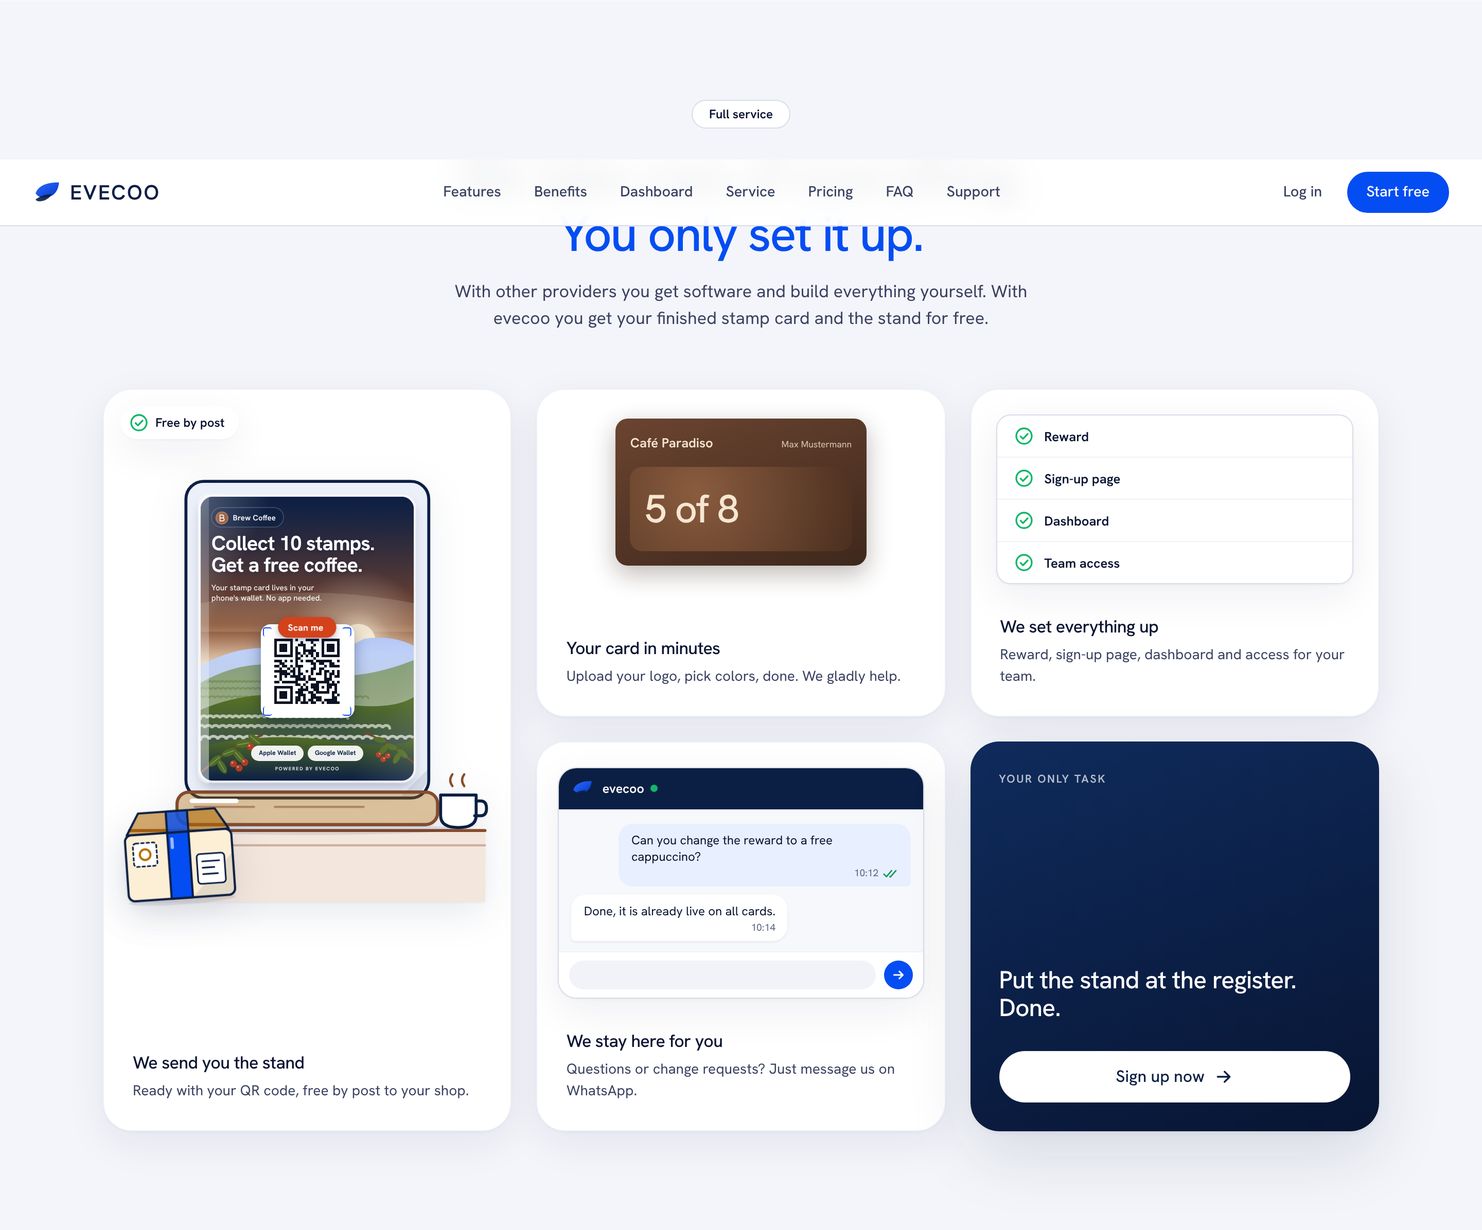
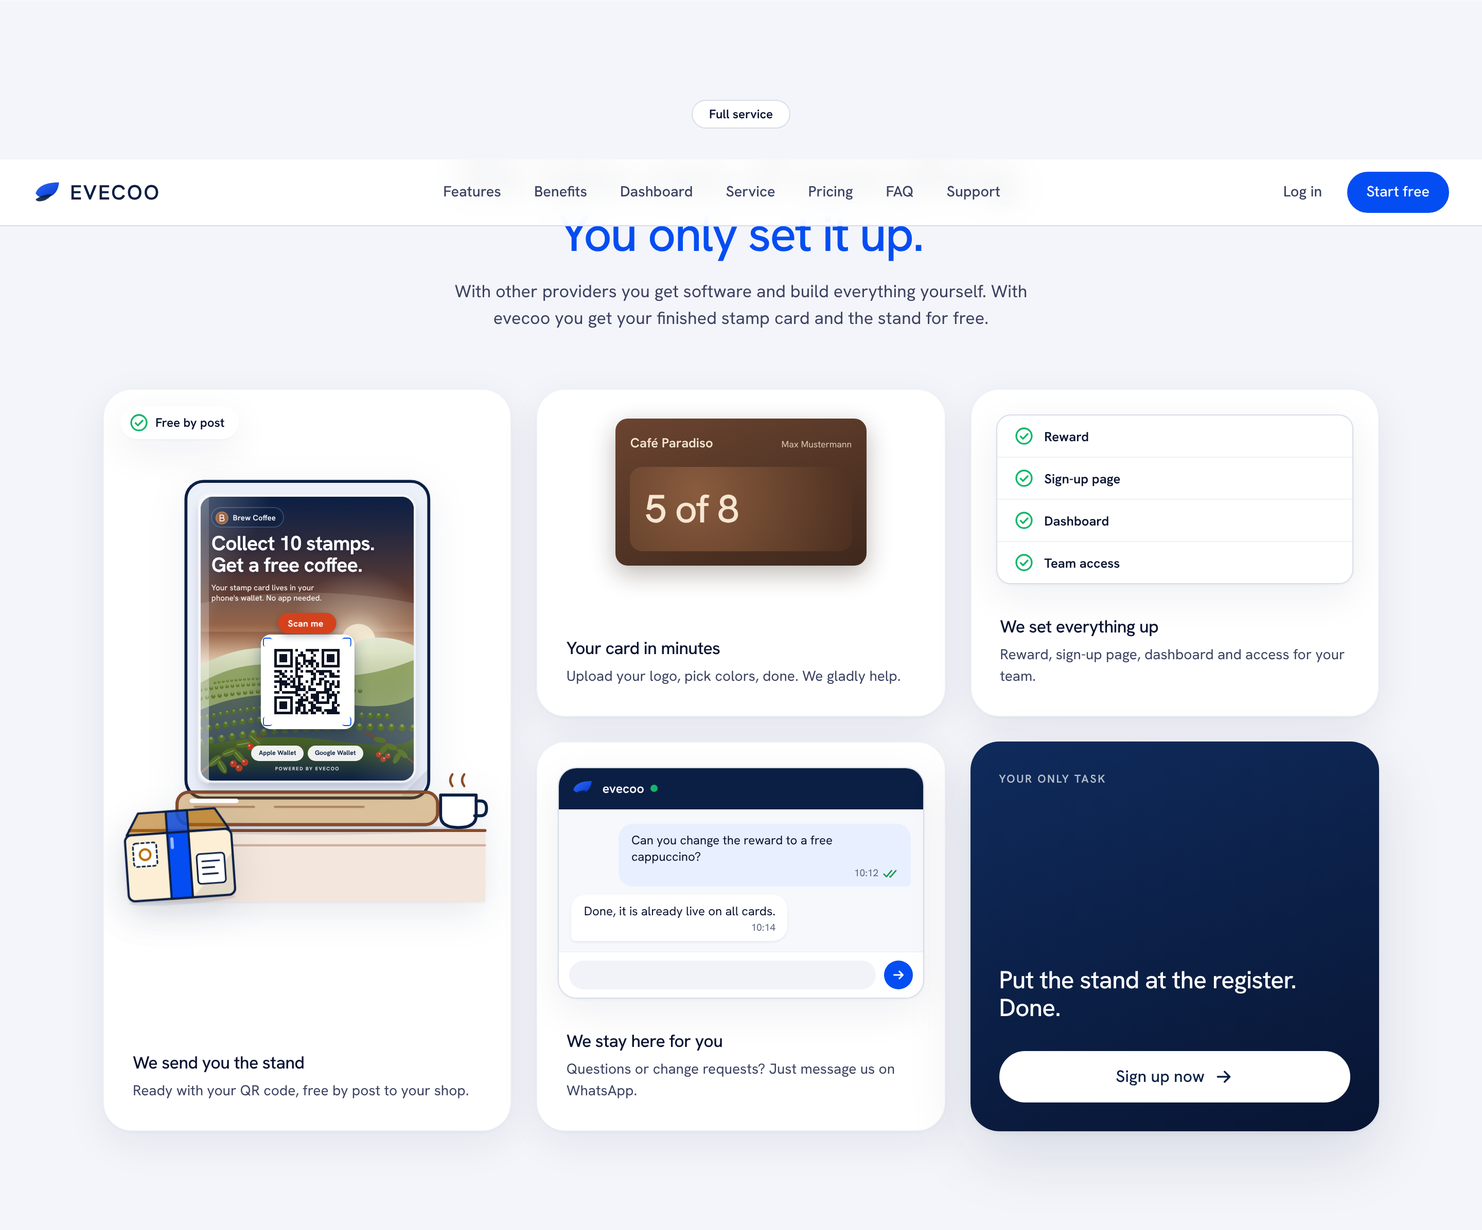
QrPoster: pill above QR tile, shrub-clump plantation rows, warmer far hill
Claude-Session: https://claude.ai/code/session_018DhSZ1ukDRH54rQH2rXpdo

Changed region(s): [[0.125, 0.495, 0.2812, 0.6187]]

diff --git a/components/illustration/illo-data.ts b/components/illustration/illo-data.ts
@@ -49,7 +49,7 @@ export const backgroundsDashArea: IlloData = {"viewBox":"0 0 1040 360","attrs":{
 
 export const backgroundsHeroField: IlloData = {"viewBox":"0 0 1440 500","attrs":{"preserveAspectRatio":"xMidYMid slice"},"body":"<defs><linearGradient id=\"hero-field__bg\" x1=\"0\" x2=\"1\" y1=\"0\" y2=\"0\"><stop offset=\"0\" stop-color=\"#b9ccfb\" stop-opacity=\".55\"/><stop offset=\".35\" stop-color=\"#e8effe\"/><stop offset=\".5\" stop-color=\"#fff\"/><stop offset=\".65\" stop-color=\"#e8effe\"/><stop offset=\"1\" stop-color=\"#b9ccfb\" stop-opacity=\".7\"/></linearGradient><linearGradient id=\"hero-field__band\" x1=\"0\" x2=\"1\" y1=\"0\" y2=\"0\"><stop offset=\"0\" stop-color=\"#fff\" stop-opacity=\".25\"/><stop offset=\".5\" stop-color=\"#fff\" stop-opacity=\".95\"/><stop offset=\"1\" stop-color=\"#fff\" stop-opacity=\".25\"/></linearGradient><linearGradient id=\"hero-field__fall\" x1=\"0\" x2=\"0\" y1=\"0\" y2=\"1\"><stop offset=\"0\" stop-color=\"#fff\" stop-opacity=\"0\"/><stop offset=\".5\" stop-color=\"#fff\" stop-opacity=\".55\"/><stop offset=\"1\" stop-color=\"#fff\" stop-opacity=\"0\"/></linearGradient><linearGradient id=\"hero-field__fade\" x1=\"0\" x2=\"1\" y1=\"0\" y2=\"0\"><stop offset=\"0\" stop-color=\"#b9ccfb\" stop-opacity=\"0\"/><stop offset=\".15\" stop-color=\"#b9ccfb\" stop-opacity=\".9\"/><stop offset=\".85\" stop-color=\"#b9ccfb\" stop-opacity=\".9\"/><stop offset=\"1\" stop-color=\"#b9ccfb\" stop-opacity=\"0\"/></linearGradient><radialGradient id=\"hero-field__core\" cx=\".5\" cy=\".54\" r=\".5\"><stop offset=\"0\" stop-color=\"#fff\" stop-opacity=\".9\"/><stop offset=\"1\" stop-color=\"#fff\" stop-opacity=\"0\"/></radialGradient></defs><rect width=\"1440\" height=\"500\" fill=\"url(#hero-field__bg)\"/><path fill=\"url(#hero-field__band)\" fill-opacity=\".8\" d=\"M0 40c390 0 540 110 720 110s330-110 720-110v430c-390 0-540-78-720-78S390 470 0 470Z\" class=\"band\"/><rect width=\"1440\" height=\"500\" fill=\"url(#hero-field__fall)\"/><ellipse cx=\"720\" cy=\"270\" fill=\"url(#hero-field__core)\" rx=\"420\" ry=\"230\"/><g fill=\"none\" stroke=\"url(#hero-field__fade)\" stroke-opacity=\".6\" class=\"persp\"><path d=\"M0 40c300 0 560 184 718 230\"/><path d=\"M0 95c300 0 560 140 718 175\"/><path d=\"M0 150c300 0 560 96 718 120\"/><path d=\"M0 210c300 0 560 48 718 60\"/><path d=\"M0 280c300 0 560-8 718-10\"/><path d=\"M0 350c300 0 560-64 718-80\"/><path d=\"M0 410c300 0 560-112 718-140\"/><path d=\"M0 465c300 0 560-156 718-195\"/><path d=\"M722 270c158-46 418-230 718-230\"/><path d=\"M722 270c158-35 418-175 718-175\"/><path d=\"M722 270c158-24 418-120 718-120\"/><path d=\"M722 270c158-12 418-60 718-60\"/><path d=\"M722 270c158 2 418 10 718 10\"/><path d=\"M722 270c158 16 418 80 718 80\"/><path d=\"M722 270c158 28 418 140 718 140\"/><path d=\"M722 270c158 39 418 195 718 195\"/></g><path fill=\"none\" stroke=\"#b9ccfb\" stroke-opacity=\".45\" d=\"M0 40c390 0 540 110 720 110s330-110 720-110M0 470c390 0 540-78 720-78s330 78 720 78\" class=\"edge\"/>"};
 
-export const backgroundsPosterCoffeeHills: IlloData = {"viewBox":"0 0 300 400","attrs":{},"body":"<defs><linearGradient id=\"poster-coffee-hills__sky\" x1=\"0\" x2=\"0\" y1=\"0\" y2=\"1\"><stop offset=\"0\" stop-color=\"#0b1f44\"/><stop offset=\".45\" stop-color=\"#8a4b2a\"/><stop offset=\".62\" stop-color=\"#fcefd6\"/></linearGradient><linearGradient id=\"poster-coffee-hills__h1\" x1=\"0\" x2=\"0\" y1=\"0\" y2=\"1\"><stop offset=\"0\" stop-color=\"#b9ccfb\"/><stop offset=\"1\" stop-color=\"#eaf0da\"/></linearGradient><linearGradient id=\"poster-coffee-hills__h2\" x1=\"0\" x2=\"0\" y1=\"0\" y2=\"1\"><stop offset=\"0\" stop-color=\"#5e7a1f\" stop-opacity=\".55\"/><stop offset=\"1\" stop-color=\"#eaf0da\"/></linearGradient><linearGradient id=\"poster-coffee-hills__h3\" x1=\"0\" x2=\"0\" y1=\"0\" y2=\"1\"><stop offset=\"0\" stop-color=\"#5e7a1f\"/><stop offset=\"1\" stop-color=\"#0b1f44\" stop-opacity=\".7\"/></linearGradient><linearGradient id=\"poster-coffee-hills__h4\" x1=\"0\" x2=\"0\" y1=\"0\" y2=\"1\"><stop offset=\"0\" stop-color=\"#5e7a1f\"/><stop offset=\"1\" stop-color=\"#0b1f44\"/></linearGradient><radialGradient id=\"poster-coffee-hills__glow\" cx=\".5\" cy=\".5\" r=\".5\"><stop offset=\"0\" stop-color=\"#fcefd6\" stop-opacity=\".95\"/><stop offset=\".45\" stop-color=\"#fcefd6\" stop-opacity=\".35\"/><stop offset=\"1\" stop-color=\"#fcefd6\" stop-opacity=\"0\"/></radialGradient></defs><rect width=\"300\" height=\"400\" fill=\"url(#poster-coffee-hills__sky)\"/><circle cx=\"222\" cy=\"203\" r=\"100\" fill=\"url(#poster-coffee-hills__glow)\"/><circle cx=\"222\" cy=\"203\" r=\"24\" fill=\"#fcefd6\"/><path fill=\"#fcefd6\" fill-opacity=\".18\" d=\"M0 150q150-30 300 0v40H0Z\"/><path fill=\"url(#poster-coffee-hills__h1)\" d=\"M0 238q60-34 120-22t110-16q40-6 70 10v190H0Z\"/><path fill=\"url(#poster-coffee-hills__h2)\" d=\"M0 262q70-40 140-18t160-14v170H0Z\"/><path fill=\"none\" stroke=\"#5e7a1f\" stroke-linecap=\"round\" stroke-opacity=\".4\" stroke-width=\"2.4\" d=\"M10 262a3 2.4 0 0 1 6 0 3 2.4 0 0 1 6 0 3 2.4 0 0 1 6 0 3 2.4 0 0 1 6 0 3 2.4 0 0 1 6 0 3 2.4 0 0 1 6 0 3 2.4 0 0 1 6 0 3 2.4 0 0 1 6 0 3 2.4 0 0 1 6 0 3 2.4 0 0 1 6 0 3 2.4 0 0 1 6 0 3 2.4 0 0 1 6 0 3 2.4 0 0 1 6 0 3 2.4 0 0 1 6 0 3 2.4 0 0 1 6 0 3 2.4 0 0 1 6 0 3 2.4 0 0 1 6 0 3 2.4 0 0 1 6 0 3 2.4 0 0 1 6 0 3 2.4 0 0 1 6 0 3 2.4 0 0 1 6 0 3 2.4 0 0 1 6 0 3 2.4 0 0 1 6 0 3 2.4 0 0 1 6 0\"/><path fill=\"none\" stroke=\"#5e7a1f\" stroke-linecap=\"round\" stroke-opacity=\".4\" stroke-width=\"2.4\" d=\"M0 272a3.5 2.8 0 0 1 7 0 3.5 2.8 0 0 1 7 0 3.5 2.8 0 0 1 7 0 3.5 2.8 0 0 1 7 0 3.5 2.8 0 0 1 7 0 3.5 2.8 0 0 1 7 0 3.5 2.8 0 0 1 7 0 3.5 2.8 0 0 1 7 0 3.5 2.8 0 0 1 7 0 3.5 2.8 0 0 1 7 0 3.5 2.8 0 0 1 7 0 3.5 2.8 0 0 1 7 0 3.5 2.8 0 0 1 7 0 3.5 2.8 0 0 1 7 0 3.5 2.8 0 0 1 7 0 3.5 2.8 0 0 1 7 0 3.5 2.8 0 0 1 7 0 3.5 2.8 0 0 1 7 0 3.5 2.8 0 0 1 7 0 3.5 2.8 0 0 1 7 0 3.5 2.8 0 0 1 7 0 3.5 2.8 0 0 1 7 0 3.5 2.8 0 0 1 7 0 3.5 2.8 0 0 1 7 0 3.5 2.8 0 0 1 7 0 3.5 2.8 0 0 1 7 0 3.5 2.8 0 0 1 7 0 3.5 2.8 0 0 1 7 0\"/><path fill=\"none\" stroke=\"#5e7a1f\" stroke-linecap=\"round\" stroke-opacity=\".4\" stroke-width=\"2.4\" d=\"M-4 284a4 3.2 0 0 1 8 0 4 3.2 0 0 1 8 0 4 3.2 0 0 1 8 0 4 3.2 0 0 1 8 0 4 3.2 0 0 1 8 0 4 3.2 0 0 1 8 0 4 3.2 0 0 1 8 0 4 3.2 0 0 1 8 0 4 3.2 0 0 1 8 0 4 3.2 0 0 1 8 0 4 3.2 0 0 1 8 0 4 3.2 0 0 1 8 0 4 3.2 0 0 1 8 0 4 3.2 0 0 1 8 0 4 3.2 0 0 1 8 0 4 3.2 0 0 1 8 0 4 3.2 0 0 1 8 0 4 3.2 0 0 1 8 0 4 3.2 0 0 1 8 0 4 3.2 0 0 1 8 0 4 3.2 0 0 1 8 0 4 3.2 0 0 1 8 0 4 3.2 0 0 1 8 0 4 3.2 0 0 1 8 0 4 3.2 0 0 1 8 0 4 3.2 0 0 1 8 0 4 3.2 0 0 1 8 0 4 3.2 0 0 1 8 0 4 3.2 0 0 1 8 0 4 3.2 0 0 1 8 0\"/><path fill=\"url(#poster-coffee-hills__h3)\" d=\"M0 300q80-34 170-14t130-4v118H0Z\"/><path fill=\"none\" stroke=\"#eaf0da\" stroke-linecap=\"round\" stroke-opacity=\".8\" stroke-width=\"4\" d=\"M0 312a4.5 3.6 0 0 1 9 0 4.5 3.6 0 0 1 9 0 4.5 3.6 0 0 1 9 0 4.5 3.6 0 0 1 9 0 4.5 3.6 0 0 1 9 0 4.5 3.6 0 0 1 9 0 4.5 3.6 0 0 1 9 0 4.5 3.6 0 0 1 9 0 4.5 3.6 0 0 1 9 0 4.5 3.6 0 0 1 9 0 4.5 3.6 0 0 1 9 0 4.5 3.6 0 0 1 9 0 4.5 3.6 0 0 1 9 0 4.5 3.6 0 0 1 9 0 4.5 3.6 0 0 1 9 0 4.5 3.6 0 0 1 9 0 4.5 3.6 0 0 1 9 0 4.5 3.6 0 0 1 9 0 4.5 3.6 0 0 1 9 0 4.5 3.6 0 0 1 9 0 4.5 3.6 0 0 1 9 0 4.5 3.6 0 0 1 9 0 4.5 3.6 0 0 1 9 0\"/><path fill=\"none\" stroke=\"#eaf0da\" stroke-linecap=\"round\" stroke-opacity=\".8\" stroke-width=\"4\" d=\"M-4 326a5 4 0 0 1 10 0 5 4 0 0 1 10 0 5 4 0 0 1 10 0 5 4 0 0 1 10 0 5 4 0 0 1 10 0 5 4 0 0 1 10 0 5 4 0 0 1 10 0 5 4 0 0 1 10 0 5 4 0 0 1 10 0 5 4 0 0 1 10 0 5 4 0 0 1 10 0 5 4 0 0 1 10 0 5 4 0 0 1 10 0 5 4 0 0 1 10 0 5 4 0 0 1 10 0 5 4 0 0 1 10 0 5 4 0 0 1 10 0 5 4 0 0 1 10 0 5 4 0 0 1 10 0 5 4 0 0 1 10 0 5 4 0 0 1 10 0 5 4 0 0 1 10 0 5 4 0 0 1 10 0 5 4 0 0 1 10 0 5 4 0 0 1 10 0 5 4 0 0 1 10 0 5 4 0 0 1 10 0\"/><path fill=\"none\" stroke=\"#eaf0da\" stroke-linecap=\"round\" stroke-opacity=\".9\" stroke-width=\"4\" d=\"M0 342a6 4.8 0 0 1 12 0 6 4.8 0 0 1 12 0 6 4.8 0 0 1 12 0 6 4.8 0 0 1 12 0 6 4.8 0 0 1 12 0 6 4.8 0 0 1 12 0 6 4.8 0 0 1 12 0 6 4.8 0 0 1 12 0 6 4.8 0 0 1 12 0 6 4.8 0 0 1 12 0 6 4.8 0 0 1 12 0 6 4.8 0 0 1 12 0 6 4.8 0 0 1 12 0 6 4.8 0 0 1 12 0 6 4.8 0 0 1 12 0 6 4.8 0 0 1 12 0 6 4.8 0 0 1 12 0 6 4.8 0 0 1 12 0 6 4.8 0 0 1 12 0 6 4.8 0 0 1 12 0 6 4.8 0 0 1 12 0 6 4.8 0 0 1 12 0 6 4.8 0 0 1 12 0 6 4.8 0 0 1 12 0 6 4.8 0 0 1 12 0\"/><path fill=\"url(#poster-coffee-hills__h4)\" d=\"M0 352q90-22 190-8t110-6v62H0Z\"/><g stroke-linecap=\"round\" stroke-linejoin=\"round\"><path fill=\"none\" stroke=\"#8a4b2a\" stroke-width=\"3\" d=\"M-6 394q46-42 92-58\"/><ellipse cx=\"20\" cy=\"372\" fill=\"#5e7a1f\" rx=\"11\" ry=\"5\" transform=\"rotate(-40 20 372)\"/><path stroke=\"#eaf0da\" stroke-opacity=\".5\" d=\"m13.87 377.14 12.26-10.28\"/><ellipse cx=\"40\" cy=\"360\" fill=\"#5e7a1f\" rx=\"11\" ry=\"5\" transform=\"rotate(-20 40 360)\"/><path stroke=\"#eaf0da\" stroke-opacity=\".5\" d=\"m32.48 362.74 15.04-5.48\"/><ellipse cx=\"60\" cy=\"348\" fill=\"#5e7a1f\" rx=\"11\" ry=\"5\" transform=\"rotate(-10 60 348)\"/><path stroke=\"#eaf0da\" stroke-opacity=\".5\" d=\"m52.12 349.39 15.76-2.78\"/><ellipse cx=\"30\" cy=\"380\" fill=\"#5e7a1f\" rx=\"11\" ry=\"5\" transform=\"rotate(60 30 380)\"/><path stroke=\"#eaf0da\" stroke-opacity=\".5\" d=\"m26 373.07 8 13.86\"/><ellipse cx=\"54\" cy=\"366\" fill=\"#5e7a1f\" rx=\"11\" ry=\"5\" transform=\"rotate(50 54 366)\"/><path stroke=\"#eaf0da\" stroke-opacity=\".5\" d=\"m48.86 359.87 10.28 12.26\"/><ellipse cx=\"76\" cy=\"342\" fill=\"#5e7a1f\" rx=\"11\" ry=\"5\" transform=\"rotate(40 76 342)\"/><path stroke=\"#eaf0da\" stroke-opacity=\".5\" d=\"m69.87 336.86 12.26 10.28\"/><circle cx=\"46\" cy=\"376\" r=\"5\" fill=\"#d4421c\"/><circle cx=\"44.4\" cy=\"374.4\" r=\"1.4\" fill=\"#fff\" fill-opacity=\".6\"/><circle cx=\"54\" cy=\"382\" r=\"5\" fill=\"#d4421c\"/><circle cx=\"52.4\" cy=\"380.4\" r=\"1.4\" fill=\"#fff\" fill-opacity=\".6\"/><circle cx=\"62\" cy=\"374\" r=\"5\" fill=\"#d4421c\"/><circle cx=\"60.4\" cy=\"372.4\" r=\"1.4\" fill=\"#fff\" fill-opacity=\".6\"/><circle cx=\"70\" cy=\"352\" r=\"5\" fill=\"#d4421c\"/><circle cx=\"68.4\" cy=\"350.4\" r=\"1.4\" fill=\"#fff\" fill-opacity=\".6\"/></g><g stroke-linecap=\"round\" stroke-linejoin=\"round\" transform=\"matrix(-.8 0 0 .8 300 64)\"><path fill=\"none\" stroke=\"#8a4b2a\" stroke-width=\"3\" d=\"M-6 394q46-42 92-58\"/><ellipse cx=\"20\" cy=\"372\" fill=\"#5e7a1f\" rx=\"11\" ry=\"5\" transform=\"rotate(-40 20 372)\"/><ellipse cx=\"40\" cy=\"360\" fill=\"#5e7a1f\" rx=\"11\" ry=\"5\" transform=\"rotate(-20 40 360)\"/><ellipse cx=\"60\" cy=\"348\" fill=\"#5e7a1f\" rx=\"11\" ry=\"5\" transform=\"rotate(-10 60 348)\"/><ellipse cx=\"30\" cy=\"380\" fill=\"#5e7a1f\" rx=\"11\" ry=\"5\" transform=\"rotate(60 30 380)\"/><ellipse cx=\"54\" cy=\"366\" fill=\"#5e7a1f\" rx=\"11\" ry=\"5\" transform=\"rotate(50 54 366)\"/><circle cx=\"46\" cy=\"376\" r=\"5\" fill=\"#d4421c\"/><circle cx=\"44.4\" cy=\"374.4\" r=\"1.4\" fill=\"#fff\" fill-opacity=\".6\"/><circle cx=\"54\" cy=\"382\" r=\"5\" fill=\"#d4421c\"/><circle cx=\"52.4\" cy=\"380.4\" r=\"1.4\" fill=\"#fff\" fill-opacity=\".6\"/><circle cx=\"62\" cy=\"374\" r=\"5\" fill=\"#d4421c\"/><circle cx=\"60.4\" cy=\"372.4\" r=\"1.4\" fill=\"#fff\" fill-opacity=\".6\"/></g>"};
+export const backgroundsPosterCoffeeHills: IlloData = {"viewBox":"0 0 300 400","attrs":{},"body":"<defs><linearGradient id=\"poster-coffee-hills__sky\" x1=\"0\" x2=\"0\" y1=\"0\" y2=\"1\"><stop offset=\"0\" stop-color=\"#0b1f44\"/><stop offset=\".45\" stop-color=\"#8a4b2a\"/><stop offset=\".62\" stop-color=\"#fcefd6\"/></linearGradient><linearGradient id=\"poster-coffee-hills__h1\" x1=\"0\" x2=\"0\" y1=\"0\" y2=\"1\"><stop offset=\"0\" stop-color=\"#eaf0da\"/><stop offset=\"1\" stop-color=\"#5e7a1f\" stop-opacity=\".45\"/></linearGradient><linearGradient id=\"poster-coffee-hills__h2\" x1=\"0\" x2=\"0\" y1=\"0\" y2=\"1\"><stop offset=\"0\" stop-color=\"#5e7a1f\" stop-opacity=\".55\"/><stop offset=\"1\" stop-color=\"#eaf0da\"/></linearGradient><linearGradient id=\"poster-coffee-hills__h3\" x1=\"0\" x2=\"0\" y1=\"0\" y2=\"1\"><stop offset=\"0\" stop-color=\"#0b1f44\" stop-opacity=\".45\"/><stop offset=\"1\" stop-color=\"#0b1f44\" stop-opacity=\".8\"/></linearGradient><linearGradient id=\"poster-coffee-hills__h4\" x1=\"0\" x2=\"0\" y1=\"0\" y2=\"1\"><stop offset=\"0\" stop-color=\"#5e7a1f\"/><stop offset=\"1\" stop-color=\"#0b1f44\"/></linearGradient><radialGradient id=\"poster-coffee-hills__glow\" cx=\".5\" cy=\".5\" r=\".5\"><stop offset=\"0\" stop-color=\"#fcefd6\" stop-opacity=\".95\"/><stop offset=\".45\" stop-color=\"#fcefd6\" stop-opacity=\".35\"/><stop offset=\"1\" stop-color=\"#fcefd6\" stop-opacity=\"0\"/></radialGradient></defs><rect width=\"300\" height=\"400\" fill=\"url(#poster-coffee-hills__sky)\"/><circle cx=\"222\" cy=\"203\" r=\"100\" fill=\"url(#poster-coffee-hills__glow)\"/><circle cx=\"222\" cy=\"203\" r=\"24\" fill=\"#fcefd6\"/><path fill=\"#fcefd6\" fill-opacity=\".18\" d=\"M0 150q150-30 300 0v40H0Z\"/><path fill=\"url(#poster-coffee-hills__h1)\" d=\"M0 238q60-34 120-22t110-16q40-6 70 10v190H0Z\"/><path fill=\"url(#poster-coffee-hills__h2)\" d=\"M0 262q70-40 140-18t160-14v170H0Z\"/><path fill=\"none\" stroke=\"#5e7a1f\" stroke-dasharray=\"0 6\" stroke-linecap=\"round\" stroke-opacity=\".8\" stroke-width=\"4\" d=\"M20 262q60-10 130-4\"/><path fill=\"none\" stroke=\"#eaf0da\" stroke-dasharray=\"0 6\" stroke-linecap=\"round\" stroke-opacity=\".35\" stroke-width=\"1.8\" d=\"M20 260.88q60-10 130-4\"/><path fill=\"none\" stroke=\"#5e7a1f\" stroke-dasharray=\"0 7.5\" stroke-linecap=\"round\" stroke-opacity=\".85\" stroke-width=\"5\" d=\"M0 272q90-14 190-6\"/><path fill=\"none\" stroke=\"#eaf0da\" stroke-dasharray=\"0 7.5\" stroke-linecap=\"round\" stroke-opacity=\".35\" stroke-width=\"2.25\" d=\"M0 270.6q90-14 190-6\"/><path fill=\"none\" stroke=\"#5e7a1f\" stroke-dasharray=\"0 9\" stroke-linecap=\"round\" stroke-opacity=\".9\" stroke-width=\"6\" d=\"M0 284q110-18 230-10\"/><path fill=\"none\" stroke=\"#eaf0da\" stroke-dasharray=\"0 9\" stroke-linecap=\"round\" stroke-opacity=\".35\" stroke-width=\"2.7\" d=\"M0 282.32q110-18 230-10\"/><path fill=\"url(#poster-coffee-hills__h3)\" d=\"M0 300q80-34 170-14t130-4v118H0Z\"/><path fill=\"none\" stroke=\"#5e7a1f\" stroke-dasharray=\"0 9.5\" stroke-linecap=\"round\" stroke-width=\"6\" d=\"M0 312q100-24 200-14\"/><path fill=\"none\" stroke=\"#eaf0da\" stroke-dasharray=\"0 9.5\" stroke-linecap=\"round\" stroke-opacity=\".35\" stroke-width=\"2.7\" d=\"M0 310.32q100-24 200-14\"/><path fill=\"none\" stroke=\"#5e7a1f\" stroke-dasharray=\"0 12\" stroke-linecap=\"round\" stroke-width=\"8\" d=\"M0 328q120-28 270-18\"/><path fill=\"none\" stroke=\"#eaf0da\" stroke-dasharray=\"0 12\" stroke-linecap=\"round\" stroke-opacity=\".35\" stroke-width=\"3.6\" d=\"M0 325.76q120-28 270-18\"/><path fill=\"none\" stroke=\"#5e7a1f\" stroke-dasharray=\"0 15\" stroke-linecap=\"round\" stroke-width=\"10\" d=\"M0 346q130-28 300-20\"/><path fill=\"none\" stroke=\"#eaf0da\" stroke-dasharray=\"0 15\" stroke-linecap=\"round\" stroke-opacity=\".35\" stroke-width=\"4.5\" d=\"M0 343.2q130-28 300-20\"/><path fill=\"url(#poster-coffee-hills__h4)\" d=\"M0 352q90-22 190-8t110-6v62H0Z\"/><g stroke-linecap=\"round\" stroke-linejoin=\"round\"><path fill=\"none\" stroke=\"#8a4b2a\" stroke-width=\"3\" d=\"M-6 394q46-42 92-58\"/><ellipse cx=\"20\" cy=\"372\" fill=\"#5e7a1f\" rx=\"11\" ry=\"5\" transform=\"rotate(-40 20 372)\"/><path stroke=\"#eaf0da\" stroke-opacity=\".5\" d=\"m13.87 377.14 12.26-10.28\"/><ellipse cx=\"40\" cy=\"360\" fill=\"#5e7a1f\" rx=\"11\" ry=\"5\" transform=\"rotate(-20 40 360)\"/><path stroke=\"#eaf0da\" stroke-opacity=\".5\" d=\"m32.48 362.74 15.04-5.48\"/><ellipse cx=\"60\" cy=\"348\" fill=\"#5e7a1f\" rx=\"11\" ry=\"5\" transform=\"rotate(-10 60 348)\"/><path stroke=\"#eaf0da\" stroke-opacity=\".5\" d=\"m52.12 349.39 15.76-2.78\"/><ellipse cx=\"30\" cy=\"380\" fill=\"#5e7a1f\" rx=\"11\" ry=\"5\" transform=\"rotate(60 30 380)\"/><path stroke=\"#eaf0da\" stroke-opacity=\".5\" d=\"m26 373.07 8 13.86\"/><ellipse cx=\"54\" cy=\"366\" fill=\"#5e7a1f\" rx=\"11\" ry=\"5\" transform=\"rotate(50 54 366)\"/><path stroke=\"#eaf0da\" stroke-opacity=\".5\" d=\"m48.86 359.87 10.28 12.26\"/><ellipse cx=\"76\" cy=\"342\" fill=\"#5e7a1f\" rx=\"11\" ry=\"5\" transform=\"rotate(40 76 342)\"/><path stroke=\"#eaf0da\" stroke-opacity=\".5\" d=\"m69.87 336.86 12.26 10.28\"/><circle cx=\"46\" cy=\"376\" r=\"5\" fill=\"#d4421c\"/><circle cx=\"44.4\" cy=\"374.4\" r=\"1.4\" fill=\"#fff\" fill-opacity=\".6\"/><circle cx=\"54\" cy=\"382\" r=\"5\" fill=\"#d4421c\"/><circle cx=\"52.4\" cy=\"380.4\" r=\"1.4\" fill=\"#fff\" fill-opacity=\".6\"/><circle cx=\"62\" cy=\"374\" r=\"5\" fill=\"#d4421c\"/><circle cx=\"60.4\" cy=\"372.4\" r=\"1.4\" fill=\"#fff\" fill-opacity=\".6\"/><circle cx=\"70\" cy=\"352\" r=\"5\" fill=\"#d4421c\"/><circle cx=\"68.4\" cy=\"350.4\" r=\"1.4\" fill=\"#fff\" fill-opacity=\".6\"/></g><g stroke-linecap=\"round\" stroke-linejoin=\"round\" transform=\"matrix(-.8 0 0 .8 300 64)\"><path fill=\"none\" stroke=\"#8a4b2a\" stroke-width=\"3\" d=\"M-6 394q46-42 92-58\"/><ellipse cx=\"20\" cy=\"372\" fill=\"#5e7a1f\" rx=\"11\" ry=\"5\" transform=\"rotate(-40 20 372)\"/><ellipse cx=\"40\" cy=\"360\" fill=\"#5e7a1f\" rx=\"11\" ry=\"5\" transform=\"rotate(-20 40 360)\"/><ellipse cx=\"60\" cy=\"348\" fill=\"#5e7a1f\" rx=\"11\" ry=\"5\" transform=\"rotate(-10 60 348)\"/><ellipse cx=\"30\" cy=\"380\" fill=\"#5e7a1f\" rx=\"11\" ry=\"5\" transform=\"rotate(60 30 380)\"/><ellipse cx=\"54\" cy=\"366\" fill=\"#5e7a1f\" rx=\"11\" ry=\"5\" transform=\"rotate(50 54 366)\"/><circle cx=\"46\" cy=\"376\" r=\"5\" fill=\"#d4421c\"/><circle cx=\"44.4\" cy=\"374.4\" r=\"1.4\" fill=\"#fff\" fill-opacity=\".6\"/><circle cx=\"54\" cy=\"382\" r=\"5\" fill=\"#d4421c\"/><circle cx=\"52.4\" cy=\"380.4\" r=\"1.4\" fill=\"#fff\" fill-opacity=\".6\"/><circle cx=\"62\" cy=\"374\" r=\"5\" fill=\"#d4421c\"/><circle cx=\"60.4\" cy=\"372.4\" r=\"1.4\" fill=\"#fff\" fill-opacity=\".6\"/></g>"};
 
 export const backgroundsPricingPattern: IlloData = {"viewBox":"0 0 160 160","attrs":{},"body":"<g opacity=\".04\"><g transform=\"rotate(-8 81.2 -33.2)\"><g fill=\"#fff\" fill-opacity=\".22\" stroke=\"#fff\" stroke-linecap=\"round\" stroke-linejoin=\"round\" stroke-width=\"3.3\" transform=\"matrix(.88 0 0 .88 2.4 2.4)\"><path fill=\"none\" d=\"M14 4.5q-1.8 2.5 0 5m6-5q-1.8 2.5 0 5\"/><path fill=\"none\" d=\"M27 18h2.5q3.5 0 3.5 4t-3.5 4H26\"/><path d=\"M8.5 14h19v7q0 10-9.5 10T8.5 21Z\"/><path fill=\"none\" d=\"M6 34.5h24\"/></g></g><g transform=\"rotate(10 -4.58 528.92)\"><g fill=\"#fff\" fill-opacity=\".22\" stroke=\"#fff\" stroke-linecap=\"round\" stroke-linejoin=\"round\" stroke-width=\"3.3\" transform=\"matrix(.88 0 0 .88 2.4 2.4)\"><path d=\"M7 14q13-5 26 0L20 34Z\"/><path d=\"M5.5 10q14.5-6.5 29 0 .5 3-1.5 4-13-5-26 0-2-1-1.5-4\"/><path d=\"M12.7 19a3.3 3.3 0 1 0 6.6 0 3.3 3.3 0 1 0-6.6 0\"/><path d=\"M21.5 20a3 3 0 1 0 6 0 3 3 0 1 0-6 0\"/></g></g><g transform=\"rotate(6 -549.52 470.79)\"><g fill=\"#fff\" fill-opacity=\".22\" stroke=\"#fff\" stroke-linecap=\"round\" stroke-linejoin=\"round\" stroke-width=\"3.3\" transform=\"matrix(.88 0 0 .88 2.4 2.4)\"><path d=\"m10 5 3-.5L26 25l-4 2.5Z\"/><path d=\"m30 5-3-.5L14 25l4 2.5Z\"/><path d=\"M7.5 31a4.5 4.5 0 1 0 9 0 4.5 4.5 0 1 0-9 0\"/><path d=\"M23.5 31a4.5 4.5 0 1 0 9 0 4.5 4.5 0 1 0-9 0\"/><path d=\"M10.4 31a1.6 1.6 0 1 0 3.2 0 1.6 1.6 0 1 0-3.2 0\"/><path d=\"M26.4 31a1.6 1.6 0 1 0 3.2 0 1.6 1.6 0 1 0-3.2 0\"/></g></g><g transform=\"rotate(-10 477.05 -596.51)\"><g fill=\"#fff\" fill-opacity=\".22\" stroke=\"#fff\" stroke-linecap=\"round\" stroke-linejoin=\"round\" stroke-width=\"3.3\" transform=\"matrix(.88 0 0 .88 2.4 2.4)\"><path d=\"M5 26q2-13 15-15 13 2 15 15-3 3-6 0-3 3-6.5 0-2.5 2.5-5 0-3.5 3-6.5 0-3 3-6 0\"/><path fill=\"none\" d=\"m16 14.5.5 8.5m7.5-8.5-.5 8.5\"/></g></g><g transform=\"rotate(12 -508.8 114.06)\"><g fill=\"#fff\" fill-opacity=\".22\" stroke=\"#fff\" stroke-linecap=\"round\" stroke-linejoin=\"round\" stroke-width=\"3.3\" transform=\"matrix(.88 0 0 .88 2.4 2.4)\"><path fill=\"none\" d=\"M20 14v9\"/><path d=\"M10 22q-4.5-3-3.5-8 4 .5 6 4Z\"/><path d=\"M30 22q4.5-3 3.5-8-4 .5-6 4Z\"/><path d=\"M15.2 10a4.8 4.8 0 1 0 9.6 0 4.8 4.8 0 1 0-9.6 0\"/><path d=\"M8 15.5a4.5 4.5 0 1 0 9 0 4.5 4.5 0 1 0-9 0\"/><path d=\"M23 15.5a4.5 4.5 0 1 0 9 0 4.5 4.5 0 1 0-9 0\"/><path d=\"M18.6 10a1.4 1.4 0 1 0 2.8 0 1.4 1.4 0 1 0-2.8 0\"/><path d=\"M9.5 22.5h21l-6 12.5h-9Z\"/></g></g><g transform=\"rotate(-6 1168.7 -723.4)\"><g fill=\"#fff\" fill-opacity=\".22\" stroke=\"#fff\" stroke-linecap=\"round\" stroke-linejoin=\"round\" stroke-width=\"3.3\" transform=\"matrix(.88 0 0 .88 2.4 2.4)\"><path d=\"M20 19c6 0 11 7 11 11 0 3.5-3.5 4-7 3q-4-1.2-8 0c-3.5 1-7 .5-7-3 0-4 5-11 11-11\"/><path d=\"M6.1 18a3.4 4 0 1 0 6.8 0 3.4 4 0 1 0-6.8 0\"/><path d=\"M12.1 11.5a3.4 4.2 0 1 0 6.8 0 3.4 4.2 0 1 0-6.8 0\"/><path d=\"M21.1 11.5a3.4 4.2 0 1 0 6.8 0 3.4 4.2 0 1 0-6.8 0\"/><path d=\"M27.1 18a3.4 4 0 1 0 6.8 0 3.4 4 0 1 0-6.8 0\"/></g></g></g>"};
 

diff --git a/components/landing/qrposter.css b/components/landing/qrposter.css
@@ -9,8 +9,8 @@
 .qrp .qrp-head h3 { margin: 0; color: #fff; font-size: 9.6cqw; line-height: 1.04; font-weight: 800; letter-spacing: -.025em; text-wrap: balance; text-shadow: 0 .4cqw 2cqw rgba(11,31,68,.35); }
 .qrp .qrp-head h3 span { display: block; }
 .qrp .qrp-head p { color: #fff; margin: 3cqw 0 0; max-width: 78cqw; font-size: 3.7cqw; line-height: 1.35; font-weight: 500; color: rgba(255,255,255,.92); text-wrap: balance; }
-.qrp-scan { position: absolute; left: 50%; top: 60cqw; width: 44cqw; transform: translateX(-50%); }
-.qrp-cta { position: absolute; left: 50%; top: -3.6cqw; transform: translateX(-50%); z-index: 2; display: inline-flex; align-items: center; gap: 1.4cqw; padding: 1.8cqw 4.6cqw; border-radius: 99px; background: #D4421C; color: #fff; font-size: 4.2cqw; font-weight: 800; letter-spacing: .01em; white-space: nowrap; box-shadow: 0 1.2cqw 3cqw rgba(11,31,68,.3); }
+.qrp-scan { position: absolute; left: 50%; top: 65cqw; width: 44cqw; transform: translateX(-50%); }
+.qrp-cta { position: absolute; left: 50%; top: -10.5cqw; transform: translateX(-50%); z-index: 2; display: inline-flex; align-items: center; gap: 1.4cqw; padding: 1.8cqw 4.6cqw; border-radius: 99px; background: #D4421C; color: #fff; font-size: 4.2cqw; font-weight: 800; letter-spacing: .01em; white-space: nowrap; box-shadow: 0 1.2cqw 3cqw rgba(11,31,68,.3); }
 .qrp-tile { position: relative; padding: 4.2cqw; border-radius: 4.5cqw; background: #fff; box-shadow: 0 1px 2px rgba(11,31,68,.12), 0 3cqw 7cqw rgba(11,31,68,.38); line-height: 0; aspect-ratio: 1; }
 .qrp-tile .hw-qr { width: 100%; height: 100%; display: block; }
 .qrp-tile .c { position: absolute; width: 4.4cqw; height: 4.4cqw; border: .6cqw solid #044DF2; border-radius: 1.2cqw; }
